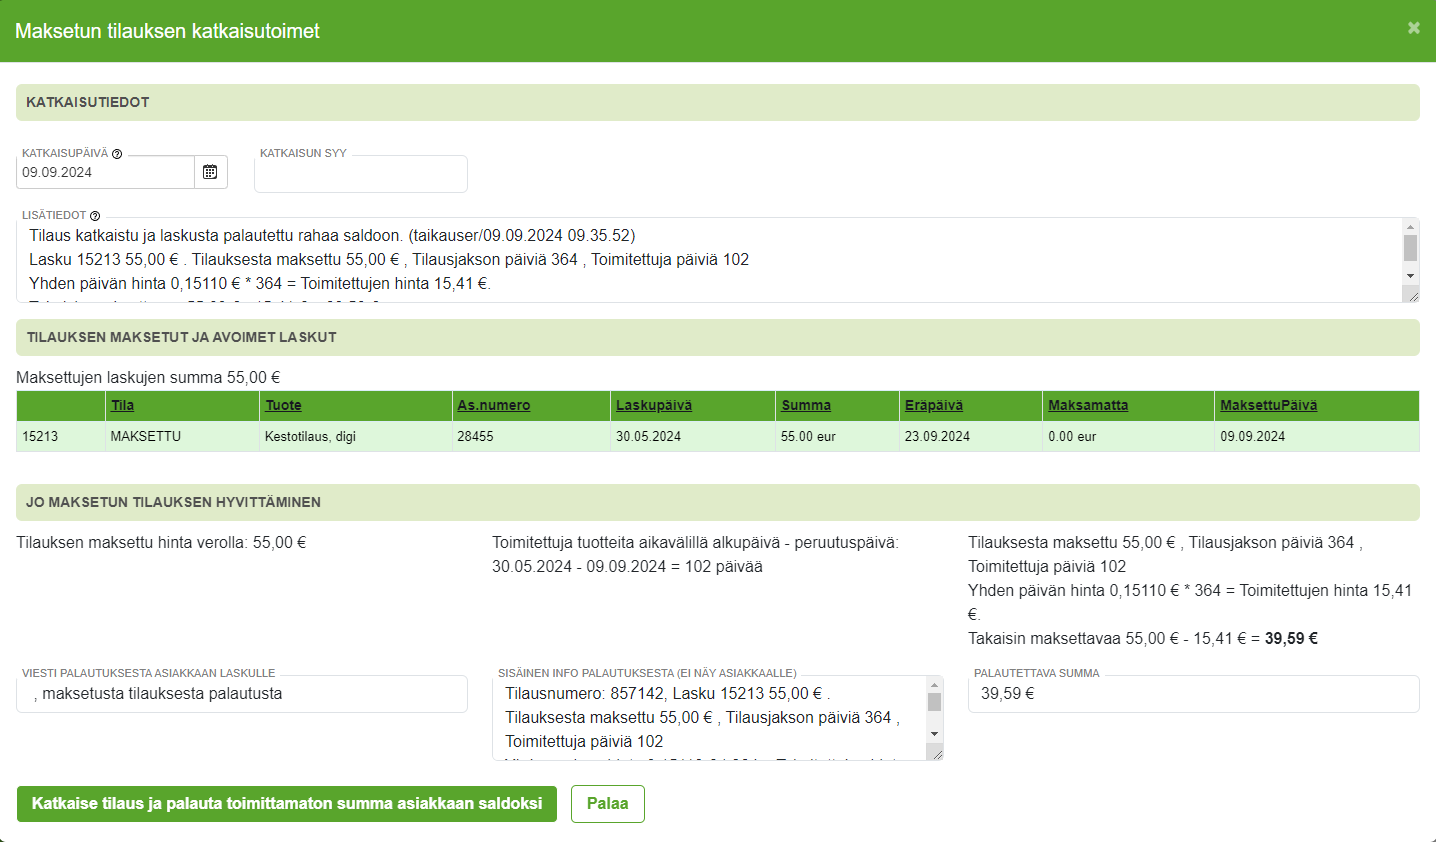
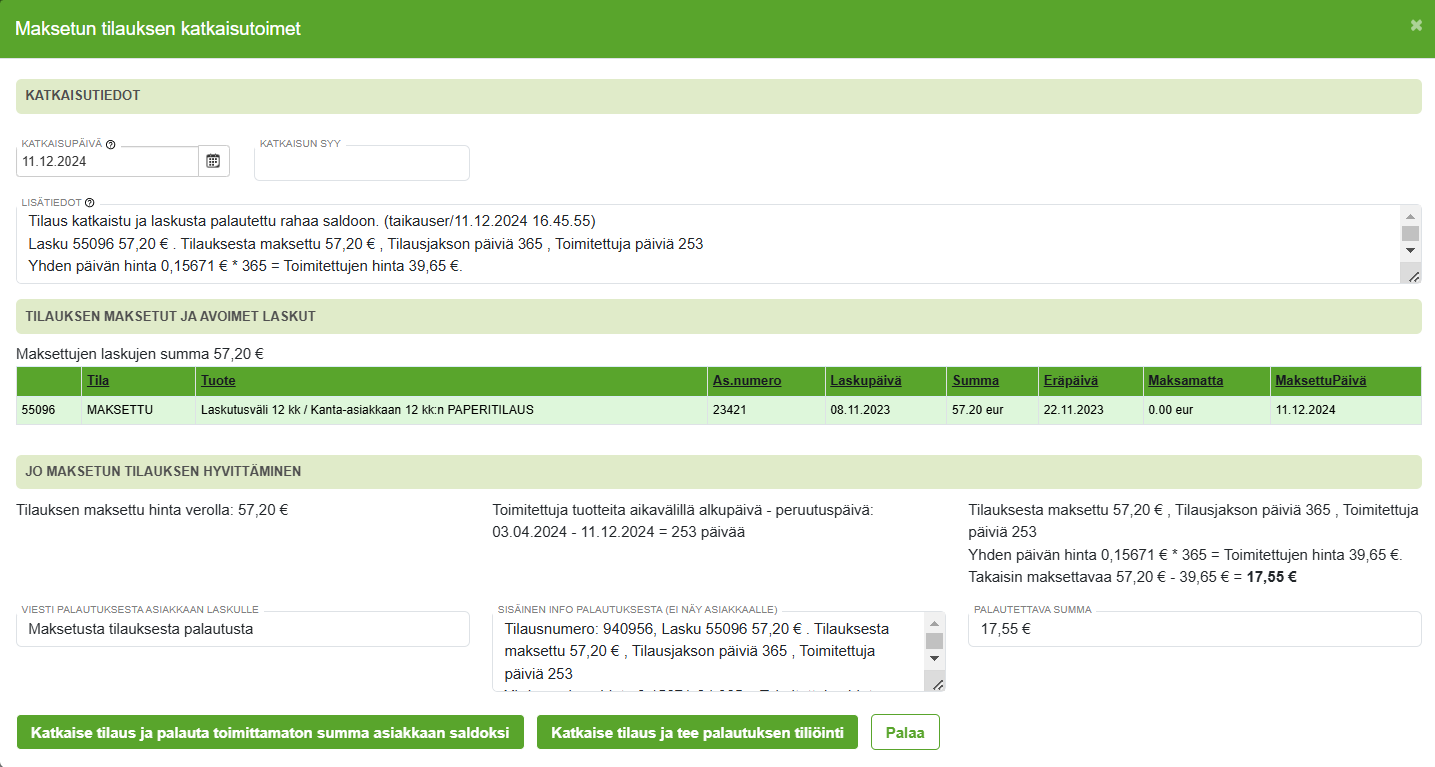
maksetun tilauksen katkaisu

diff --git a/docs/ohjeet/tilaustenhallinta/tilaukset.md b/docs/ohjeet/tilaustenhallinta/tilaukset.md
@@ -81,7 +81,9 @@ Laskutuspyynnön voi myös poistaa Poista-painiketta painamalla.
 
 Asiakkaan **voimassa oleva tilaus**, jota ei ole maksettu, voidaan tarvittaessa katkaista ja muodostaa uusi lasku jo toimitetuista lehdistä.
 
-Tilauslomakkeen alaosasta löytyvää **Katkaisukäsittely**–painiketta painamalla pääset tilauksen katkaisukäsittelyyn.
+Tilauslomakkeen alaosasta löytyvää **Maksamattoman tilauksen katkaisu**–painiketta painamalla pääset tilauksen katkaisukäsittelyyn.
+
+![Tilauslomake](/img/ohjeet/maksamaton.png)
 
 Lomakkeelle täytetään
 - Katkaisutiedot - **Katkaisupäivä ja Katkaisun syy**
@@ -101,11 +103,15 @@ Tällöin vältytään tilanteelta, jossa Kestojatkon ajossa toinen voimassaolev
 
 ### Maksetun tilauksen katkaisu
 
-Kun maksettu tilaus katkaistaan, voidaan maksettu summa siirtää asiakkaalle saldoksi. 
+Kun maksettu tilaus katkaistaan, voidaan maksettu summa siirtää asiakkaalle saldoksi tai voidaan tehdä tiliöinti asiakkaalle palautuvasta rahasta tilauksen laskulle (**HUOM!** TaikaTilauksen kautta **ei liiku rahaa**! Palautus asiakkaan tilille pitää tehdä taloushallinnon kautta!). 
 
 **Saldoa** kertyy asiakkaalle esimerkiksi siinä tapauksessa, että asiakas on **maksanut** jonkun tilauksen, mutta haluaa sittenkin **vaihtaa** sen toiseen tilaustuotteeseen. Kun tilaus katkaistaan, tulee asiakkaalle hyvityksenä tilauksen **saamattomista lehdistä** tietty euromäärä. Tämä määrä siirtyy asiakkaan saldoon, jota voidaan käytettää tulevien laskujen maksamiseen.
 
-Maksetun tilauksen katkaisu tehdään painamalla **Maksetun tilauksen katkaisu** -painiketta. Lomakkeelle lisätään katkaisupäivä ja -syy. **Ohjelma laskee automaattisesti hyvitettävän saldon määrän**. Tarvittaessa voit muokata Viesti asiakkaalle ja Sisäinen info -kenttien tekstejä.
+Maksetun tilauksen katkaisu tehdään painamalla **Maksetun tilauksen katkaisu** -painiketta. Lomakkeelle lisätään katkaisupäivä ja -syy. **Ohjelma laskee automaattisesti hyvitettävän saldon/rahasumman määrän**. Tarvittaessa voit muokata Viesti asiakkaalle ja Sisäinen info -kenttien tekstejä.
+
+Jos haluat palauttaa takaisin maksettavan summan **saldoksi**, paina **Katkaise tilaus ja palauta toimittamaton summa asiakkaan saldoksi** -painiketta.
+
+Jos haluat palauttaa takaisin maksettavan summan asiakkaalle, paina **Katkaise tilaus ja tee palautuksen tiliöinti** -painiketta. **HUOM!** Tämä **ei** tee itse palautusta! Palautus **pitää tehdä taloushallinnon kautta**! Tiliöinti tehdään kirjanpidon raportteja varten!
 
 ![Tilauksen tiedot - Maksetun tilauksen katkaisutoimet](/img/ohjeet/maksettutilaus-katkaisu.png)
 *Maksetun tilauksen katkaisutoimet.*
@@ -114,6 +120,8 @@ Maksetun tilauksen katkaisu tehdään painamalla **Maksetun tilauksen katkaisu**
 
 ![Asiakaskortti - Laskutiedot](/img/ohjeet/saldo4.png)
 *Saldo näkyy asiakaskortilla laskutustietojen alla.*
+
+Jos valitsit rahapalautuksen tiliöinnin, tiliöinnit ilmestyvät tilaukseen liittyvälle laskulle. 
 
 ### Tilauksen jatkaminen
 
